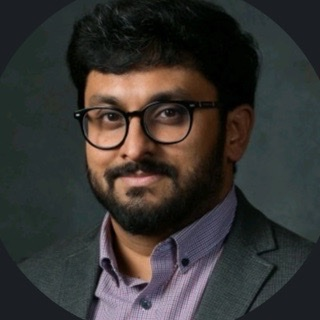
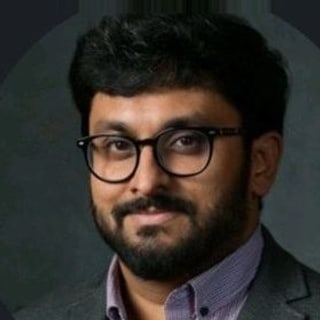
Portraits framed alike, collapsible course projects, UTC clock
- One portrait() function frames every photo the same way: whole hair,
  chin at about 86%, face centred; used for Stéphane and Mano Mathew.
- Courses: each course's Projects block is collapsed by default.
- Contact: a path back to the cockpit; the breadcrumb is now shared.
- Cockpit: the left screen shows the current UTC date and time in orange,
  on its own layer so it stays bright when that screen dims.

diff --git a/app/journey/CockpitScreens.tsx b/app/journey/CockpitScreens.tsx
@@ -29,31 +29,47 @@ function useDrift(centre: number, spread: number, decimals: number) {
   return v.toFixed(decimals);
 }
 
+/** The current date and time in UTC, e.g. "2026-11-07 01:58:12 UTC", updated every second.
+ *  Empty on the pre-rendered page, so the server and the browser render the same markup. */
 function useClock() {
-  const [s, setS] = useState(521);
+  const [now, setNow] = useState<Date | null>(null);
   useEffect(() => {
-    if (matchMedia('(prefers-reduced-motion: reduce)').matches) return;
-    const id = setInterval(() => setS((x) => x + 1), 1000);
-    return () => clearInterval(id);
+    const tick = () => setNow(new Date());
+    const first = setTimeout(tick, 0);
+    const id = setInterval(tick, 1000);
+    return () => {
+      clearTimeout(first);
+      clearInterval(id);
+    };
   }, []);
-  const p = (n: number) => String(n).padStart(2, '0');
-  return `T+ ${p(Math.floor(s / 3600))}:${p(Math.floor(s / 60) % 60)}:${p(s % 60)}`;
+  return now ? `${now.toISOString().slice(0, 19).replace('T', ' ')} UTC` : '';
+}
+
+/** The UTC clock, drawn over the left screen's header on its own layer: it stays bright when that screen dims. */
+function UtcClock() {
+  const clock = useClock();
+  return (
+    <div className="cockpit-screen cockpit-screen--left cockpit-clock">
+      <svg className="cs-svg" viewBox="0 0 300 205" preserveAspectRatio="none">
+        <text className="cs-t end cs-clock" x="290" y="18">
+          {clock}
+        </text>
+      </svg>
+    </div>
+  );
 }
 
 function Telemetry() {
   const alt = useDrift(408.2, 0.6, 1);
   const vel = useDrift(7.66, 0.02, 2);
   const g = useDrift(1.02, 0.03, 2);
-  const clock = useClock();
   return (
     <svg className="cs-svg" viewBox="0 0 300 205" preserveAspectRatio="none">
       <circle className="cs-dot" cx="12" cy="14" r="3" />
       <text className="cs-t" x="20" y="17">
         TELEMETRY · ASCENT
       </text>
-      <text className="cs-t end" x="290" y="17">
-        {clock}
-      </text>
+
       <g className="cs-grid">
         {[44, 74, 104, 134].map((y) => (
           <path key={y} d={`M10 ${y}H290`} />
@@ -183,6 +199,7 @@ export function CockpitScreens() {
       <div className="cockpit-screen cockpit-screen--right">
         <DataLink />
       </div>
+      <UtcClock />
     </div>
   );
 }

diff --git a/app/sections/courses/courses.css b/app/sections/courses/courses.css
@@ -21,29 +21,6 @@
   max-width: 650px;
   margin: 16px 0 36px;
 }
-.course-breadcrumb ol {
-  display: flex;
-  flex-wrap: wrap;
-  gap: 4px 0;
-  list-style: none;
-  padding: 0;
-  margin: 0 0 28px;
-  font-size: 13px;
-}
-.course-breadcrumb li + li::before {
-  content: '/';
-  margin: 0 10px;
-  opacity: 0.5;
-}
-.course-breadcrumb a {
-  text-decoration: none;
-}
-.course-breadcrumb a:hover {
-  color: var(--color-gold);
-}
-.course-breadcrumb [aria-current] {
-  color: var(--color-text);
-}
 .course {
   border-top: 1px solid var(--color-line);
   padding-top: 36px;
@@ -103,11 +80,57 @@
   border-left: 1px solid var(--color-line);
 }
 .course__projects-title {
+  display: flex;
+  align-items: center;
+  gap: 12px;
+  padding: 10px 0;
+  color: var(--color-gold);
+  cursor: pointer;
+  list-style: none;
+}
+.course__projects-title::-webkit-details-marker {
+  display: none;
+}
+.course__projects-title h3 {
+  margin: 0;
   font-size: 12px;
   letter-spacing: 0.16em;
   text-transform: uppercase;
-  color: var(--color-gold);
-  margin: 0 0 4px;
+  color: inherit;
+}
+.course__projects-count {
+  min-width: 22px;
+  padding: 1px 7px;
+  border: 1px solid var(--color-gold);
+  border-radius: 11px;
+  font-size: 11px;
+  text-align: center;
+}
+/* A chevron: points right when closed, down when open. */
+.course__projects-toggle {
+  width: 8px;
+  height: 8px;
+  margin-left: 4px;
+  border-right: 2px solid currentColor;
+  border-bottom: 2px solid currentColor;
+  transform: rotate(-45deg);
+  transition: transform 0.2s;
+}
+.course__projects[open] .course__projects-toggle {
+  transform: rotate(45deg);
+}
+.course__projects-title:hover h3 {
+  text-decoration: underline;
+  text-underline-offset: 4px;
+}
+.course__projects-title:focus-visible {
+  outline: 2px solid var(--color-gold);
+  outline-offset: 4px;
+}
+@media (prefers-reduced-motion: reduce) {
+  .course__projects-toggle {
+    transition: none;
+  }
 }
 .project-entry {
   display: grid;

diff --git a/app/sections/courses/page.tsx b/app/sections/courses/page.tsx
@@ -2,7 +2,7 @@ import { Link } from 'react-router';
 import { SiteNav } from '~/components/SiteNav';
 import { SiteFooter } from '~/components/SiteFooter';
 import { metaForPath } from '~/meta';
-import { Breadcrumb } from './Breadcrumb';
+import { Breadcrumb } from '~/components/Breadcrumb';
 import { courses } from './catalogue';
 import { gridPoints } from './nyc-taxi/data';
 import './courses.css';
@@ -97,8 +97,12 @@ export default function CoursesPage() {
               </div>
             </header>
 
-            <div className="course__projects">
-              <h3 className="course__projects-title">Projects</h3>
+            <details className="course__projects">
+              <summary className="course__projects-title">
+                <h3>Projects</h3>
+                <span className="course__projects-count">{course.projects.length}</span>
+                <span className="course__projects-toggle" aria-hidden="true" />
+              </summary>
               {course.projects.map((project, i) => (
                 <Link key={project.slug} to={project.path} className="project-entry">
                   <div className="project-entry__copy">
@@ -125,7 +129,7 @@ export default function CoursesPage() {
                   </div>
                 </Link>
               ))}
-            </div>
+            </details>
           </section>
         ))}
       </main>

diff --git a/tests/e2e/nyc-taxi.spec.ts b/tests/e2e/nyc-taxi.spec.ts
@@ -7,10 +7,14 @@ test('the cockpit leads through Courses to the NYC Taxi case and back', async ({
   await page.locator('#cockpit').getByRole('link', { name: 'COURSES' }).click();
   await expect(page).toHaveURL(/\/courses\/?$/);
   // The cockpit locks scrolling; a page reached from it must scroll again.
-  await page.mouse.wheel(0, 400);
-  await expect.poll(() => page.evaluate(() => window.scrollY)).toBeGreaterThan(0);
+  expect(await page.evaluate(() => getComputedStyle(document.documentElement).overflow)).not.toBe('hidden');
   await expect(page.getByRole('heading', { name: 'Data Visualisation & BI' })).toBeVisible();
   await expect(page.getByRole('link', { name: 'mathew.mano@gmail.com' })).toBeVisible();
+  // Projects are collapsed by default: open the course's projects first.
+  await expect(page.getByRole('link', { name: /Open the project/ })).toBeHidden();
+  await page.locator('.course__projects-title').first().click();
+  await page.mouse.wheel(0, 400);
+  await expect.poll(() => page.evaluate(() => window.scrollY)).toBeGreaterThan(0);
   await page.getByRole('link', { name: /Open the project/ }).click();
   await expect(page).toHaveURL(/\/courses\/nyc-taxi\/?$/);
   await expect(page.getByRole('heading', { name: /One day/ })).toBeVisible();

diff --git a/app/styles/site.css b/app/styles/site.css
@@ -316,3 +316,42 @@ html:has(body.page-body) {
   margin: 0 0 var(--space-4);
   object-fit: cover;
 }
+
+/* The path from the cockpit to the page, at the top of full pages. */
+.course-breadcrumb ol {
+  display: flex;
+  flex-wrap: wrap;
+  gap: 4px 0;
+  list-style: none;
+  padding: 0;
+  margin: 0 0 28px;
+  font-size: 13px;
+}
+.course-breadcrumb li + li::before {
+  content: '/';
+  margin: 0 10px;
+  opacity: 0.5;
+}
+.course-breadcrumb a {
+  text-decoration: none;
+}
+.course-breadcrumb a:hover {
+  color: var(--color-gold);
+}
+.course-breadcrumb [aria-current] {
+  color: var(--color-text);
+}
+
+/* Cockpit: the UTC clock over the left screen, in orange, larger than the other labels, never dimmed. */
+.cockpit-clock {
+  filter: none;
+}
+.cs-t.cs-clock {
+  font-size: 10px;
+  font-weight: 800;
+  letter-spacing: 0;
+  fill: #ff9d4d;
+  paint-order: stroke;
+  stroke: #02121b;
+  stroke-width: 2.4px;
+}

diff --git a/app/sections/contact/page.tsx b/app/sections/contact/page.tsx
@@ -1,3 +1,4 @@
+import { Breadcrumb } from '~/components/Breadcrumb';
 import { ContactLinks } from '~/components/ContactLinks';
 import { SiteFooter } from '~/components/SiteFooter';
 import { SiteNav } from '~/components/SiteNav';
@@ -12,6 +13,7 @@ export default function ContactPage() {
     <div className="page">
       <SiteNav />
       <main className="page__main">
+        <Breadcrumb trail={[['Contact']]} />
         <img
           className="portrait"
           src="/assets/portrait-320.webp"

diff --git a/app/sections/courses/nyc-taxi/page.tsx b/app/sections/courses/nyc-taxi/page.tsx
@@ -3,7 +3,7 @@ import { Link } from 'react-router';
 import { SiteNav } from '~/components/SiteNav';
 import { SiteFooter } from '~/components/SiteFooter';
 import { metaForPath } from '~/meta';
-import { Breadcrumb } from '../Breadcrumb';
+import { Breadcrumb } from '~/components/Breadcrumb';
 import { courseOf } from '../catalogue';
 import {
   ActivityChart,
